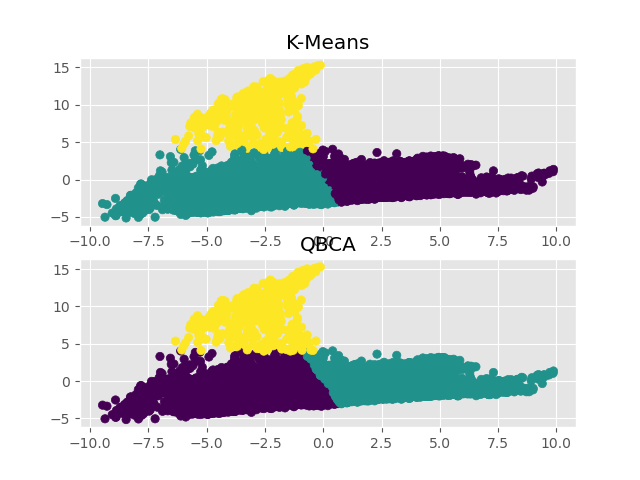
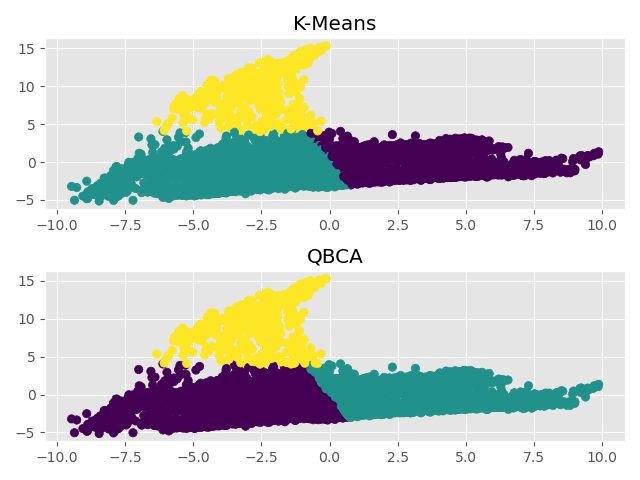
xd

diff --git a/compare_clusters.py b/compare_clusters.py
@@ -10,10 +10,10 @@ import time
 from utils import *
 from evaluate import dunn_index
 if __name__ == '__main__':
-    n_clusters = 3
+    n_clusters = 4
     thr = 0.0001
     max_iter = 50
-    dataset = 'satimage'
+    dataset = 'test'
 
     X, _ = load_data(dataset, n_dims=5, has_labels=True)
     q = QBCA(n_seeds=n_clusters, thr=thr, max_iter=max_iter)

diff --git a/utils.py b/utils.py
@@ -53,6 +53,7 @@ def plot_comparison(x1, y1, x2, y2, alg1, alg2, dataset):
     axs[0].scatter(x1[:, 0], x1[:, 1], c=y1)
     axs[1].set_title(alg2)
     axs[1].scatter(x2[:, 0], x2[:, 1], c=y2)
+    plt.tight_layout()
     plt.savefig(join(plot_dir, '{}_comp.png'.format(dataset)))
 
 
